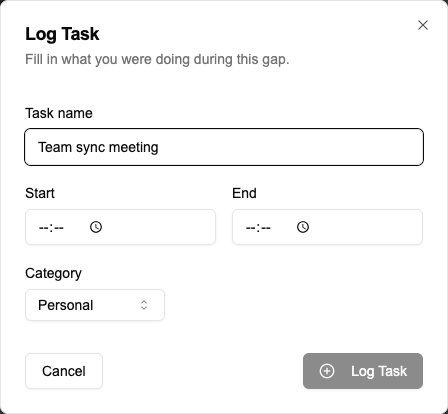
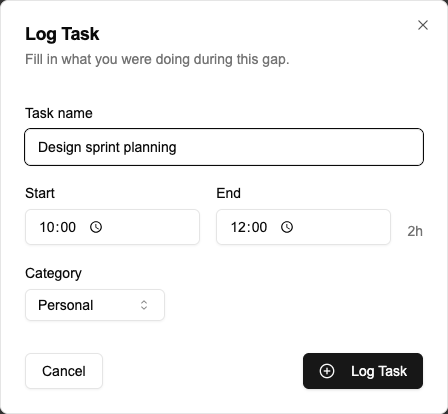
Fix dialog time prefilling, E2E test listId, and screenshots
- Fix QuickAddFromGapDialog: use useEffect instead of onOpenChange for
  time prefilling. Radix Dialog does not call onOpenChange when opened
  via the open prop, so times were never set.
- Fix E2E tests: dynamically fetch listId via /api/lists instead of
  hardcoding listId=1, which may not exist on preview deployments.
- Replace screenshots with properly cropped versions showing the
  timeline with gaps, gap hover state, and dialog with prefilled times.

diff --git a/cypress/e2e/quick-add-from-gap.cy.ts b/cypress/e2e/quick-add-from-gap.cy.ts
@@ -2,6 +2,20 @@
 
 describe("Quick-Add from Timeline Gap", () => {
   let createdTaskIds: number[] = [];
+  let workListId: number;
+
+  before(() => {
+    // Dynamically fetch a valid listId (may differ between local and preview)
+    const apiKey = Cypress.env("API_TEST_KEY");
+    cy.request({
+      method: "GET",
+      url: "/api/lists",
+      headers: { "x-api-key": apiKey },
+    }).then((response) => {
+      expect(response.body.lists.length).to.be.greaterThan(0);
+      workListId = response.body.lists[0].id;
+    });
+  });
 
   beforeEach(() => {
     cy.intercept("POST", "/api/create-completed-task").as(
@@ -62,13 +76,13 @@ describe("Quick-Add from Timeline Gap", () => {
       `Gap test A ${Date.now()}`,
       todayAt(9, 0),
       todayAt(10, 0),
-      1,
+      workListId,
     );
     createCompletedTaskViaApi(
       `Gap test B ${Date.now()}`,
       todayAt(11, 0),
       todayAt(12, 0),
-      1,
+      workListId,
     );
 
     // Navigate to Today filter to see the timeline
@@ -129,13 +143,13 @@ describe("Quick-Add from Timeline Gap", () => {
       `Cancel test A ${Date.now()}`,
       todayAt(9, 0),
       todayAt(10, 0),
-      1,
+      workListId,
     );
     createCompletedTaskViaApi(
       `Cancel test B ${Date.now()}`,
       todayAt(11, 0),
       todayAt(12, 0),
-      1,
+      workListId,
     );
 
     cy.get('[data-cy="filter-today"]').click();
@@ -164,13 +178,13 @@ describe("Quick-Add from Timeline Gap", () => {
       `Disabled test A ${Date.now()}`,
       todayAt(9, 0),
       todayAt(10, 0),
-      1,
+      workListId,
     );
     createCompletedTaskViaApi(
       `Disabled test B ${Date.now()}`,
       todayAt(11, 0),
       todayAt(12, 0),
-      1,
+      workListId,
     );
 
     cy.get('[data-cy="filter-today"]').click();

diff --git a/src/features/timeline/ui/QuickAddFromGapDialog.tsx b/src/features/timeline/ui/QuickAddFromGapDialog.tsx
@@ -1,6 +1,6 @@
 'use client';
 
-import { useState } from 'react';
+import { useState, useEffect } from 'react';
 import {
   Dialog,
   DialogContent,
@@ -51,16 +51,17 @@ export function QuickAddFromGapDialog({ gap, open, onOpenChange }: QuickAddFromG
   const [selectedListId, setSelectedListId] = useState<number | null>(null);
   const createCompletedTask = useCreateCompletedTaskMutation();
 
-  const handleOpenChange = (isOpen: boolean) => {
-    if (isOpen && gap) {
-      // Reset form and pre-fill times from gap
+  // Pre-fill times when dialog opens with a gap.
+  // Radix Dialog does not call onOpenChange when opened via the `open` prop,
+  // so we use an effect instead of relying on onOpenChange for initialization.
+  useEffect(() => {
+    if (open && gap) {
       setName('');
       setStartTime(formatTimeInput(gap.startedAt));
       setEndTime(formatTimeInput(gap.endedAt));
       setSelectedListId(null);
     }
-    onOpenChange(isOpen);
-  };
+  }, [open, gap]);
 
   const handleSubmit = () => {
     if (!name.trim() || !selectedListId || !gap) return;
@@ -91,7 +92,7 @@ export function QuickAddFromGapDialog({ gap, open, onOpenChange }: QuickAddFromG
   })();
 
   return (
-    <Dialog open={open} onOpenChange={handleOpenChange}>
+    <Dialog open={open} onOpenChange={onOpenChange}>
       <DialogContent className="sm:max-w-md" data-cy="quick-add-gap-dialog">
         <DialogHeader>
           <DialogTitle>Log Task</DialogTitle>
